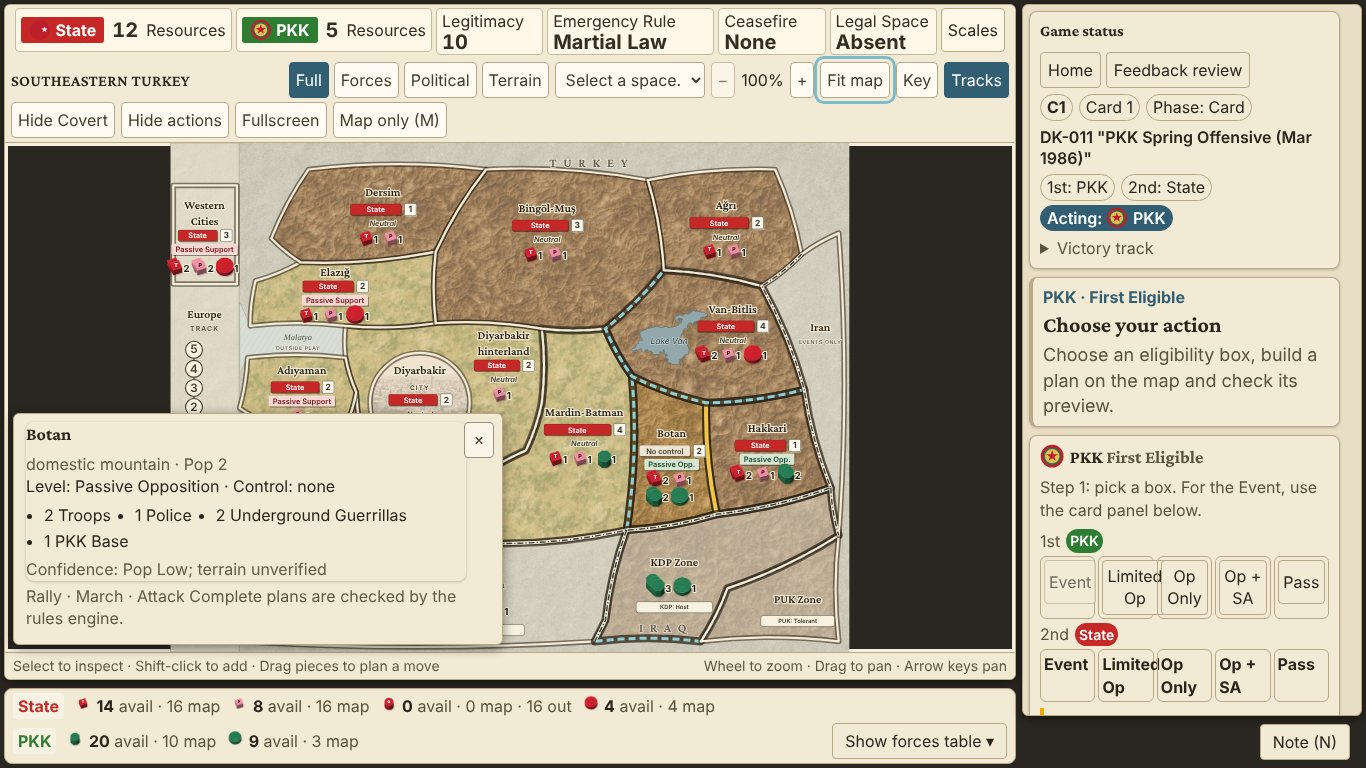
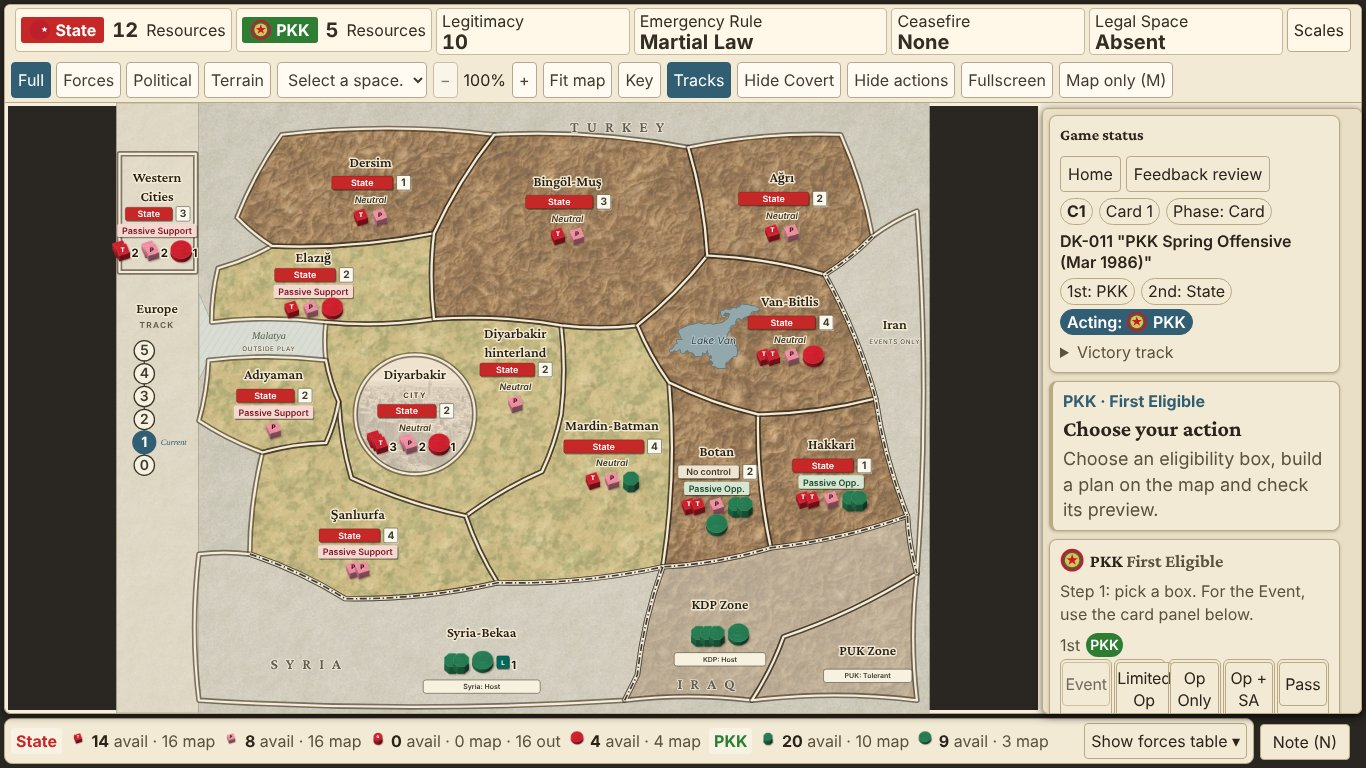
Visual redesign follow-up: individual pieces, wider board at 1366, selection border (#96)
* Draw pieces one by one, widen the board at 1366 and keep the selected border on top

An area draws up to 6 sprites for each piece group when all pieces fit
inside its border, and falls back to piles and counts when they do not.
From 1101 to 1500 px the side panel takes no layout column, so the board
has 60 percent of a 1366 x 768 window with panels open (44 before).
The selected border is drawn again above all area and country borders.
The design document records the measured frame times.

Claude-Session: https://claude.ai/code/session_015SRWaFc8vbpGxFW74fzxR7

* Keep host posture counters inside the border when pieces are drawn one by one

A host area now uses single pieces only when they need no more rows than
the piles, so the posture counter below them does not move down.

Claude-Session: https://claude.ai/code/session_015SRWaFc8vbpGxFW74fzxR7

---------

diff --git a/sim/src/ui/board/Atlas.tsx b/sim/src/ui/board/Atlas.tsx
@@ -3,7 +3,7 @@ import type { BoardView, SpaceView } from "../api.ts";
 import { ATLAS, type AtlasSpace } from "./atlas-data.ts";
 import { chipOf, levelLabel } from "./markers.tsx";
 import { PieceIcon, SPRITE } from "./PieceIcon.tsx";
-import { presentation, statusLayout } from "./layout.ts";
+import { presentation, spreadPlan, statusLayout } from "./layout.ts";
 import { inside } from "./region.ts";
 
 /** Older packages retain their original schematic layout. */
@@ -55,6 +55,14 @@ function LevelCounter({text, level, x, y}: {readonly text:string; readonly level
   </g>;
 }
 
+/** One cardboard marker chip with its count. */
+function MarkerChip({marker:m, x, y, countX}: {readonly marker:SpaceView["markers"][number]; readonly x:number; readonly y:number; readonly countX:number}) {
+  const chip = chipOf(m.hidden ? "covert" : m.marker);
+  return <g aria-label={`${chip.name}${m.side === "default" ? "" : ` ${m.side}`} ${String(m.count)}`} transform={`translate(${String(x)} ${String(y)})`}>
+    <rect x={-9} y={-8} width={20} height={20} rx={3} className="chip-shadow" /><rect x={-10} y={-10} width={20} height={20} rx={3} fill={chip.fill} className="chip-face" /><text y={4} textAnchor="middle" className="chip-code">{chip.code}</text><text x={countX} y={6} className="map-count">{m.count}</text><title>{`${chip.name} ${m.side} ${String(m.count)}`}</title>
+  </g>;
+}
+
 /** Stack grid cell in map units: one sprite pile and its count. */
 const CELL_W = 46;
 const CELL_H = 33;
@@ -63,6 +71,21 @@ const CELL_H = 33;
 function Stack({space, view, layout}: {readonly space:SpaceView; readonly view:BoardView; readonly layout:AtlasSpace}) {
   const total = space.pieces.length+space.markers.length;
   if (total === 0) return null;
+  const spread = spreadPlan(space, layout);
+  if (spread !== null) return <g className="atlas-stack" data-stack="spread">
+    {space.pieces.map((piece,i) => {
+      const group = spread.groups[i];
+      return group === undefined ? null : <g key={`${piece.piece}-${piece.face}`} aria-label={`${piece.piece} ${piece.face} ${String(piece.count)}`}>
+        {group.at.map((at,n) => <PieceIcon key={n} piece={piece} color={view.factions.find(f=>f.id === piece.faction)?.color ?? "#444"} x={at.x} y={at.y} size={SPRITE} bare />)}
+        {group.count !== null && <text x={group.count.x} y={group.count.y} className="map-count">{group.count.text}</text>}
+      </g>;
+    })}
+    {space.markers.map((m,i) => {
+      const group = spread.groups[space.pieces.length+i];
+      const at = group?.at[0];
+      return group === undefined || at === undefined ? null : <MarkerChip key={`${m.marker}-${m.side}`} marker={m} x={at.x} y={at.y} countX={(group.count?.x ?? at.x+14)-at.x} />;
+    })}
+  </g>;
   const columns = total === 4 ? 2 : Math.min(3,total);
   const [x,y,w] = layout.stack;
   const positions = Array.from({length:Math.min(total,6)},(_,i) => ({x:x+(w-columns*CELL_W)/2+15+(i%columns)*CELL_W,y:y+8+Math.floor(i/columns)*CELL_H}));
@@ -76,10 +99,7 @@ function Stack({space, view, layout}: {readonly space:SpaceView; readonly view:B
     {pieces.map((piece,i) => <PieceIcon key={`${piece.piece}-${piece.face}`} piece={piece} color={view.factions.find(f=>f.id === piece.faction)?.color ?? "#444"} x={positions[i]?.x ?? x} y={positions[i]?.y ?? y} size={SPRITE} />)}
     {markers.map((m,i) => {
       const at = positions[pieces.length+i] ?? {x,y};
-      const chip = chipOf(m.hidden ? "covert" : m.marker);
-      return <g key={`${m.marker}-${m.side}`} aria-label={`${chip.name}${m.side === "default" ? "" : ` ${m.side}`} ${String(m.count)}`} transform={`translate(${String(at.x)} ${String(at.y)})`}>
-        <rect x={-9} y={-8} width={20} height={20} rx={3} className="chip-shadow" /><rect x={-10} y={-10} width={20} height={20} rx={3} fill={chip.fill} className="chip-face" /><text y={4} textAnchor="middle" className="chip-code">{chip.code}</text><text x={16} y={6} className="map-count">{m.count}</text><title>{`${chip.name} ${m.side} ${String(m.count)}`}</title>
-      </g>;
+      return <MarkerChip key={`${m.marker}-${m.side}`} marker={m} x={at.x} y={at.y} countX={16} />;
     })}
     {total > shown && <g className="atlas-overflow" aria-label={`${String(total-shown)} more force or marker groups; select to inspect`}><text x={positions[shown]?.x ?? x} y={(positions[shown]?.y ?? y)+6}>+{total-shown}</text><title>Select this space to inspect every piece type, face, marker and count.</title></g>}
   </g>;

diff --git a/sim/src/ui/board/layout.ts b/sim/src/ui/board/layout.ts
@@ -1,6 +1,7 @@
 // Presentation bounds only. No rules, links or stored coordinates are modified.
 import type { SpaceView } from "../api.ts";
-import { ATLAS } from "./atlas-data.ts";
+import { ATLAS, type AtlasSpace } from "./atlas-data.ts";
+import { inside } from "./region.ts";
 import { isEuropeTrack } from "../status/tracks.ts";
 
 export interface SpaceLayout {
@@ -26,4 +27,63 @@ export function statusLayout(space: SpaceView): readonly SpaceLayout[] {
   const p=presentation(space);
   const y = p.y + 20 + p.height - 10;
   return [{...p,x:p.x+4,y:y+1,width:p.width-34,height:21},{...p,y:y+27,height:22},{...p,x:p.x+p.width-24,y,width:22,height:23}];
+}
+
+/** At most this many sprites of one piece group are drawn one by one. A larger group also prints its total. */
+export const SPREAD_CAP = 6;
+const ROW = 31;
+const GAP = 6;
+
+export interface SpreadGroup {
+  /** Sprite centers, left to right. A marker has one. */
+  readonly at: readonly { readonly x: number; readonly y: number }[];
+  /** The printed number: the total of a piece group above the cap, or the count of a marker. */
+  readonly count: { readonly x: number; readonly y: number; readonly text: string } | null;
+}
+
+/**
+ * Positions for every piece of the space drawn one by one, in the order pieces then markers.
+ * Null when a group does not fit inside the area border: the caller then draws piles and counts.
+ */
+export function spreadPlan(space: SpaceView, area: Pick<AtlasSpace, "stack" | "rings">): { readonly rows: number; readonly groups: readonly SpreadGroup[] } | null {
+  const [x, y, w] = area.stack;
+  const units = [
+    ...space.pieces.map(p => {
+      const n = Math.min(p.count, SPREAD_CAP);
+      const half = p.shape === "disc" ? 16 : 12;
+      const step = p.shape === "disc" ? 20 : 14;
+      const number = p.count > SPREAD_CAP ? 4 + 11 * String(p.count).length : 0;
+      return { n, half, step, body: 2 * half + (n - 1) * step, number, text: p.count > SPREAD_CAP ? String(p.count) : null };
+    }),
+    ...space.markers.map(m => ({ n: 1, half: 10, step: 0, body: 20, number: 4 + 11 * String(m.count).length, text: String(m.count) })),
+  ].filter(u => u.n > 0);
+  const rows: (typeof units)[] = [];
+  let width = 0;
+  for (const u of units) {
+    const row = rows.at(-1);
+    if (row === undefined || width + GAP + u.body + u.number > w) { rows.push([u]); width = u.body + u.number; }
+    else { row.push(u); width += GAP + u.body + u.number; }
+  }
+  const within = (px: number, py: number): boolean => area.rings.length === 0 || area.rings.filter(r => inside([px, py], r)).length % 2 === 1;
+  // An inset box has no border ring. It holds one row.
+  if (area.rings.length === 0 && rows.length > 1) return null;
+  // A host area prints its posture counter below the pieces. More rows than the piles need would push it over the border.
+  const piles = Math.min(units.length, 6);
+  if (space.kind !== "domestic" && rows.length > Math.ceil(piles / (piles === 4 ? 2 : Math.min(3, piles)))) return null;
+  const groups: SpreadGroup[] = [];
+  for (const [r, row] of rows.entries()) {
+    const total = row.reduce((sum, u) => sum + u.body + u.number, 0) + GAP * (row.length - 1);
+    const cy = y + 8 + r * ROW;
+    let left = x + (w - total) / 2;
+    for (const u of row) {
+      const right = left + u.body + u.number;
+      if (total > w || ![[left, cy - 17], [right, cy - 17], [left, cy + 15], [right, cy + 15]].every(([px = 0, py = 0]) => within(px, py))) return null;
+      groups.push({
+        at: Array.from({ length: u.n }, (_, i) => ({ x: left + u.half + i * u.step, y: cy })),
+        count: u.text === null ? null : { x: left + u.body + 3, y: cy + 6, text: u.text },
+      });
+      left = right + GAP;
+    }
+  }
+  return { rows: rows.length, groups };
 }

diff --git a/sim/src/ui/board/layout.test.ts b/sim/src/ui/board/layout.test.ts
@@ -2,7 +2,7 @@ import { describe, expect, it } from "vitest";
 import { boardView } from "../../server/view.ts";
 import { kurdish } from "../../../test/kurdish-package.ts";
 import { turnOf } from "../../../test/board.ts";
-import { presentation, statusLayout } from "./layout.ts";
+import { presentation, SPREAD_CAP, spreadPlan, statusLayout } from "./layout.ts";
 import { inside } from "./region.ts";
 import { ATLAS } from "./atlas-data.ts";
 const view = boardView(kurdish.ruleset, kurdish.data, turnOf("pkk"));
@@ -45,3 +45,49 @@ it.each(view.spaces.filter(s => s.kind === "domestic" && !s.tags.includes("noLan
     }
   }
 },30000);
+
+describe("individual pieces (spread plan)", () => {
+  const botan = view.spaces.find(s => s.id === "botan");
+  const area = ATLAS.spaces.botan;
+  if (botan === undefined || area === undefined) throw new Error("botan");
+  const withCounts = (count: number, groups = botan.pieces.length) => ({ ...botan, markers: [], pieces: botan.pieces.slice(0, groups).map(p => ({ ...p, count })) });
+
+  it("places one sprite per piece and no count while every group is at the cap or below", () => {
+    const plan = spreadPlan(botan, area);
+    if (plan === null) throw new Error("the start setup must fit");
+    expect(plan.groups.map(g => g.at.length)).toEqual(botan.pieces.map(p => p.count));
+    expect(plan.groups.every(g => g.count === null)).toBe(true);
+    expect(spreadPlan(botan, area)).toEqual(plan);
+  });
+
+  it("draws 6 sprites and prints the exact total for a group above the cap", () => {
+    const plan = spreadPlan(withCounts(9, 1), area);
+    if (plan === null) throw new Error("one group of 9 must fit");
+    expect(plan.groups[0]?.at).toHaveLength(SPREAD_CAP);
+    expect(plan.groups[0]?.count?.text).toBe("9");
+  });
+
+  it("keeps every sprite inside the area border", () => {
+    for (const s of view.spaces) {
+      const layout = ATLAS.spaces[s.id];
+      const plan = layout === undefined ? null : spreadPlan(s, layout);
+      if (plan === null || layout === undefined) continue;
+      for (const g of plan.groups) for (const p of g.at) for (const point of [[p.x - 12, p.y - 15], [p.x + 12, p.y + 13]] as const)
+        expect(layout.rings.filter(r => inside(point, r)).length % 2, s.id).toBe(1);
+    }
+  });
+
+  it("never uses more rows than the piles in a host area, so the posture counter below stays inside the border", () => {
+    const syria = view.spaces.find(s => s.id === "syria-bekaa");
+    const host = ATLAS.spaces["syria-bekaa"];
+    const guerrilla = syria?.pieces.find(p => p.piece === "guerrilla");
+    if (syria === undefined || host === undefined || guerrilla === undefined) throw new Error("syria");
+    const crowded = { ...syria, markers: [], pieces: [{ ...guerrilla, face: "active", count: 6 }, { ...guerrilla, face: "underground", count: 6 }] };
+    expect(spreadPlan(crowded, host)?.rows ?? 1).toBe(1);
+    expect(spreadPlan(syria, host)?.rows).toBe(1);
+  });
+
+  it("returns null when the individual pieces do not fit, so the area falls back to piles", () => {
+    expect(spreadPlan(withCounts(12), area)).toBeNull();
+  });
+});

diff --git a/sim/src/ui/board/Board.tsx b/sim/src/ui/board/Board.tsx
@@ -10,6 +10,7 @@ import { chipOf, LevelMarker, MarkerChips } from "./markers.tsx";
 import { PieceIcon } from "./PieceIcon.tsx";
 import { counted, words } from "../common/names.ts";
 import { isEuropeTrack, spaceOfTrack } from "../status/tracks.ts";
+import { spreadPlan } from "./layout.ts";
 import { isInset, MAP_H, MAP_W, MAP_X0, pathOf, regionCells, type Point } from "./region.ts";
 
 const INSET_W = 116;
@@ -168,7 +169,7 @@ function BoxTrack({ track, space, geographic }: {readonly geographic: boolean; r
   const layout = geographic ? atlasLayout(space) : undefined;
   const groups = space.pieces.length + space.markers.length;
   const columns = groups === 4 ? 2 : Math.min(3,Math.max(1,groups));
-  const at = layout === undefined ? {x:space.x,y:space.y+(isInset(space) ? 20 : 48)} : {x:layout.info[0]+layout.info[2]/2,y:layout.info[1]+52+(groups > 0 ? Math.ceil(Math.min(groups,6)/columns)*33+17 : 5)};
+  const at = layout === undefined ? {x:space.x,y:space.y+(isInset(space) ? 20 : 48)} : {x:layout.info[0]+layout.info[2]/2,y:layout.info[1]+52+(groups > 0 ? (spreadPlan(space, layout)?.rows ?? Math.ceil(Math.min(groups,6)/columns))*33+17 : 5)};
   const width = layout === undefined ? 116 : layout.info[2]-6;
   const label = numeric ? `${track.display}: ${String(track.value)}` : `${track.display.replace(" posture", "")}: ${words(String(track.value))}`;
   return <g role="group" aria-label={`${track.display} track`} data-track-space={space.id} className="box-track" pointerEvents="none">
@@ -307,6 +308,14 @@ export function Board({ view, selected, onSelect, changed = [], onDrag, arrows =
         />
       ))}
       {cells.geographic && <AtlasGeography />}
+      {/* The selected border is drawn again above all area and country borders, so no neighbor covers it. */}
+      {cells.geographic && spaces.filter(sp => selected.includes(sp.id)).map(sp => {
+        const area = atlasLayout(sp);
+        const d = area === undefined ? null : sp.id === "diyarbakir-rural" ? `${area.path.split("Z")[0] ?? ""}Z` : area.path;
+        return d === null ? null : <g key={sp.id} className="atlas-selected" data-of={sp.id} pointerEvents="none" fill="none" strokeLinejoin="round">
+          <path d={d} className="casing" vectorEffect="non-scaling-stroke" /><path d={d} className="ring" vectorEffect="non-scaling-stroke" />
+        </g>;
+      })}
       {spaces.map((s) => {
         const layout = cells.geographic ? atlasLayout(s) : undefined;
         return layout === undefined ? <Tokens key={s.id} space={s} view={view} x={s.x} y={s.y + 6} /> : <AtlasInfo key={s.id} space={s} view={view} layout={layout} />;

diff --git a/sim/src/ui/styles.css b/sim/src/ui/styles.css
@@ -589,3 +589,28 @@ body:has(.play-screen) .tip {font-size:16px;}
   .track-card.expanded [data-track="emergencyRule"] {flex-basis:150px;}
   .track-scales > summary {padding:2px 6px;}
 }
+.atlas-selected .casing {stroke:#2e2114; stroke-opacity:.8; stroke-width:8;}
+.atlas-selected .ring {stroke:#f0c54a; stroke-width:4;}
+
+/* Narrow desktop (1101 to 1500 px): the side panel takes no layout column. It lies over the right
+   part of the map window, below the track card and the toolbar. Those rows and the forces bar get the
+   full width and stay on one row. The board keeps clear of the open panel, so no area is under it. */
+@media (min-width:1101px) and (max-width:1500px) {
+  .play-screen:not(.actions-hidden) {--sidebar-width:320px;}
+  .play-screen {--overlay-top:104px;}
+  .play-screen:not(:has(.track-card)) {--overlay-top:50px;}
+  .play-screen .play {grid-template-columns:minmax(0,1fr); position:relative;}
+  .play-screen:not(.map-only) .side {position:absolute; z-index:4; right:0; top:var(--overlay-top); bottom:50px; width:var(--sidebar-width); height:auto; box-sizing:border-box;}
+  .play-screen:not(.map-only) .map-window {margin-right:var(--sidebar-width);}
+  .play-screen .map-navigation .board-title {display:none;}
+  /* The caption shows only while it reports candidate targets. Its fixed hints are in each area tooltip. */
+  .play-screen .map-caption:not(:has(strong)) {display:none;}
+  .play-main {gap:4px;}
+  /* The Note button is at the lower right corner. The forces bar keeps clear of it. */
+  .play-screen .forces-bar {margin-right:108px; gap:4px 8px; padding:4px 6px;}
+  .play-screen .forces-group {gap:7px; flex-wrap:nowrap; white-space:nowrap;}
+  .play-screen .forces-bar > button {padding:4px 6px;}
+  .play-screen .action-panels .elig-box button {padding:4px 0; letter-spacing:-.2px;}
+  .play-screen .elig-row {gap:2px;}
+  .play-screen .elig-box {padding:2px 1px;}
+}

diff --git a/sim/src/ui/board/PieceIcon.tsx b/sim/src/ui/board/PieceIcon.tsx
@@ -23,8 +23,8 @@ export function spriteOf(piece: PieceView): string | null {
   return name === "guerrilla-underground" && piece.emblem === "starCircle" ? "guerrilla-active" : name;
 }
 
-/** `bare`: the shape only, with no count (legend). `size`: sprite canvas edge; the atlas passes SPRITE. */
-export function PieceIcon({ piece, color, x, y, bare = false, size: canvas = COMPACT }: { readonly piece: PieceView; readonly color: string; readonly x: number; readonly y: number; readonly bare?: boolean; readonly size?: number }) {
+/** `bare`: one shape with no count and no label (legend, single atlas pieces). `size`: sprite canvas edge; the atlas passes SPRITE. */
+export function PieceIcon({ piece, color, x, y, bare = false, size: asked }: { readonly piece: PieceView; readonly color: string; readonly x: number; readonly y: number; readonly bare?: boolean; readonly size?: number }) {
   const code: Readonly<Record<string,string>> = {troops:"T",police:"P",guards:"G"};
   const letter=code[piece.piece];
   const factionColor = piece.faction === "state" ? "#bd1f2c" : piece.faction === "pkk" ? "#26734e" : color;
@@ -33,7 +33,9 @@ export function PieceIcon({ piece, color, x, y, bare = false, size: canvas = COM
   const h = SIZE / 2;
   const sprite = spriteOf(piece);
   if (sprite !== null) {
-    const size = bare ? 20 : canvas;
+    const canvas = asked ?? COMPACT;
+    // The legend asks for no size and gets a small sprite. The atlas draws single pieces at its own size.
+    const size = bare && asked === undefined ? 20 : canvas;
     // Only the atlas grid has room for a pile. The schematic fallback shows one sprite and the count.
     const pile = bare || canvas < SPRITE ? 1 : Math.max(1, Math.min(PILE, piece.count));
     const k = size / SPRITE;

diff --git a/sim/src/ui/board/board.test.tsx b/sim/src/ui/board/board.test.tsx
@@ -33,6 +33,23 @@ describe("Board", () => {
     expect(screen.getByRole("button", { name: "Botan" }).getAttribute("aria-pressed")).toBe("true");
   });
 
+  it("draws the selected border above every area border, so no neighbor covers it", () => {
+    const { container } = render(<Board view={view} selected={["botan"]} onSelect={vi.fn()} />);
+    const ring = container.querySelector(".atlas-selected[data-of='botan']");
+    const lastArea = [...container.querySelectorAll(".map-space")].at(-1);
+    if (ring === null || lastArea === undefined) throw new Error("selected ring");
+    expect(lastArea.compareDocumentPosition(ring) & Node.DOCUMENT_POSITION_FOLLOWING).toBeTruthy();
+    expect(ring.getAttribute("pointer-events")).toBe("none");
+    expect(container.querySelectorAll(".atlas-selected[data-of='hakkari']")).toHaveLength(0);
+  });
+
+  it("draws each piece of a small group one by one and keeps the group label", () => {
+    render(<Board view={view} selected={[]} onSelect={vi.fn()} />);
+    const group = screen.getByLabelText("guerrilla underground 3");
+    expect(group.querySelectorAll("image")).toHaveLength(3);
+    expect(group.querySelector(".map-count")).toBeNull();
+  });
+
   it("shows the detail card and the status bar", () => {
     const botan = view.spaces.find((s) => s.id === "botan");
     if (botan === undefined) throw new Error("botan");

diff --git a/docs/coin-visual-redesign-design.md b/docs/coin-visual-redesign-design.md
@@ -47,21 +47,27 @@ Seven transparent PNG sprites sit in `map/pieces/`. Each is 192 x 192 px and 15 
 - One projection serves all sprites. It is orthographic, with the camera about 60 degrees above the horizon. Light comes from the upper left. The paint is matte with faint grain. A soft contact shadow is baked in. The top face center is at pixel (96, 84).
 - `spriteOf` in `PieceIcon.tsx` maps faction, shape and color variant to a sprite. The `starCircle` emblem selects the active Guerrilla face.
 - Shapes come from `pieces.yaml`: cube (Troops, Police), cylinder (Guards), disc (both Bases) and octagon (Guerrilla).
-- On the atlas, a sprite is 54 map units. One group shows at most 3 piled sprites and always prints the exact count. The T, P and G codes stay on State forces.
+- On the atlas, a sprite is 54 map units. The T, P and G codes stay on State forces.
+- An area draws its pieces one by one when all of them fit inside its border. One group shows at most 6 sprites. A group of 7 or more also prints its exact total. `spreadPlan` in `layout.ts` gives the positions.
+- An area where the pieces do not fit shows piles: at most 3 piled sprites for one group, with the exact count. Thus one area can show single pieces while its neighbor shows piles.
+- The accessible label of each group and the space inspector always give the exact count.
 - Placement uses the existing deterministic grid in `Stack` in `Atlas.tsx`, with 46 x 33 unit cells. A group that would cross the area border becomes a "+N" overflow. The space inspector lists everything.
 
 ## Counters and feedback
 
 - Control, population, Support or Opposition and marker chips are cardboard counters: a face and an offset dark shadow. No SVG filters are used.
 - Active Support or Opposition uses a solid faction color with white text. Passive uses a pale tint. Neutral uses italic text with no counter.
+- The selected border is drawn again above all area and country borders, so no neighbor border covers it.
 - Selected area: gold #f0c54a border with a 20% gold tint. Rules neighbors: dashed pale teal border.
 - Keyboard focus: white casing with a dark #12323d line. It is defined after the eligibility rules, so candidate spaces keep it.
 
 ## Layout and navigation
 
 - The Play screen fills the viewport at 1101 px and wider, with no page scroll.
-- Toolbar: one row (45 px) at 1920, two rows at 1366. The resources and politics card shows one summary row by default. The full scales open from the "Scales" disclosure.
-- Side panel: 420 px at 1920, 340 px at 1366. "Hide actions" and "Map only (M)" collapse it. Action drafts stay mounted.
+- Toolbar: one row (45 px) at 1920 and at 1366. The resources and politics card shows one summary row by default. The full scales open from the "Scales" disclosure.
+- Side panel: 420 px at 1920. "Hide actions" and "Map only (M)" collapse it. Action drafts stay mounted.
+- From 1101 to 1500 px the side panel (320 px) takes no layout column. It lies over the right part of the map window, below the track card and the toolbar. Those rows and the forces bar have the full width. The board keeps clear of the open panel, so no area is under it.
+- From 1101 to 1500 px the caption below the map shows only while it reports candidate targets. Its fixed hints are in each area tooltip.
 - In Map only, the summary row floats over the lower board margin. The space inspector is a floating card at the lower left of the map. Its × button closes it.
 - Wheel zoom centers on the pointer, from 100% to 400%. Drag on the board background, middle-button drag and Alt-drag pan. A drag that starts on a space still plans a move. "Fit map" resets the camera.
 
@@ -69,6 +75,7 @@ Measured board share of the viewport:
 
 - 0.64 at 1920 x 1080 with panels open.
 - 0.94 at 1920 x 1080 in Map only.
+- 0.60 at 1366 x 768 with panels open (0.44 before the overlay side panel).
 - 0.87 at 1366 x 768 in Map only.
 
 ## Asset generation
@@ -81,8 +88,8 @@ Measured board share of the viewport:
 ## Verification
 
 - `make check` is clean.
-- `make test` passes: 1513 tests in 109 files. UI tests: 252 pass.
-- `make e2e` (smoke, 36 checks) and `make ux` (74 checks) pass on Linux with Chromium. They cover both target sizes, page scroll, board area thresholds, wheel zoom, selection, drag planning, commit, undo, notes and export.
+- `make test` passes: 1520 tests in 109 files. UI tests: 259 pass.
+- `make e2e` (smoke, 36 checks) and `make ux` (76 checks) pass on Linux with Chromium. They cover both target sizes, page scroll, board area thresholds, wheel zoom, selection, drag planning, commit, undo, notes and export.
 - No console errors.
 - Screenshots in `docs/coin-visual-redesign/`:
 
@@ -100,8 +107,16 @@ At 1366 x 768:
 
 ## Known limitations
 
-1. At 1366 x 768 with the side panel open, the board has about 44% of the viewport. Use "Hide actions" or "Map only (M)" for more board.
+1. At 1366 x 768 with the side panel open, the board has 60.2% of the viewport. The margin above the 60% target is small. "Hide actions" or "Map only (M)" gives more board.
 2. The terrain is an illustrative texture, not surveyed elevation. It carries no game rule.
 3. The legacy printed draft `draft-map.svg` and the rulebook are not restyled.
 4. Browser checks ran on Linux Chromium only. Windows runs `make check` and `make test` in CI.
-5. Rendering speed was not profiled. Six pointer-centered wheel zoom steps completed in about 0.5 s in headless Chromium at 1920 x 1080, with 40 ms waits between steps.
+5. Rendering speed was measured in headless Chromium only (software rendering, no GPU). See "Rendering speed".
+
+## Rendering speed
+
+- Target: a median frame time of 33 ms or less during drag pan and wheel zoom.
+- Load: a synthetic dense view. Every area holds four groups of six pieces and three markers (149 sprite images on the board).
+- Machine: 4-core Intel Xeon at 2.1 GHz, headless Chromium 153, no GPU.
+- Result at 1920 x 1080 and at 1366 x 768: animation frames have a 16.7 ms median during zoom and pan. Frames drawn by the compositor during pan have a 16.7 ms median and a 95th percentile of about 21 ms.
+- The target is met. No speed fix was necessary.
